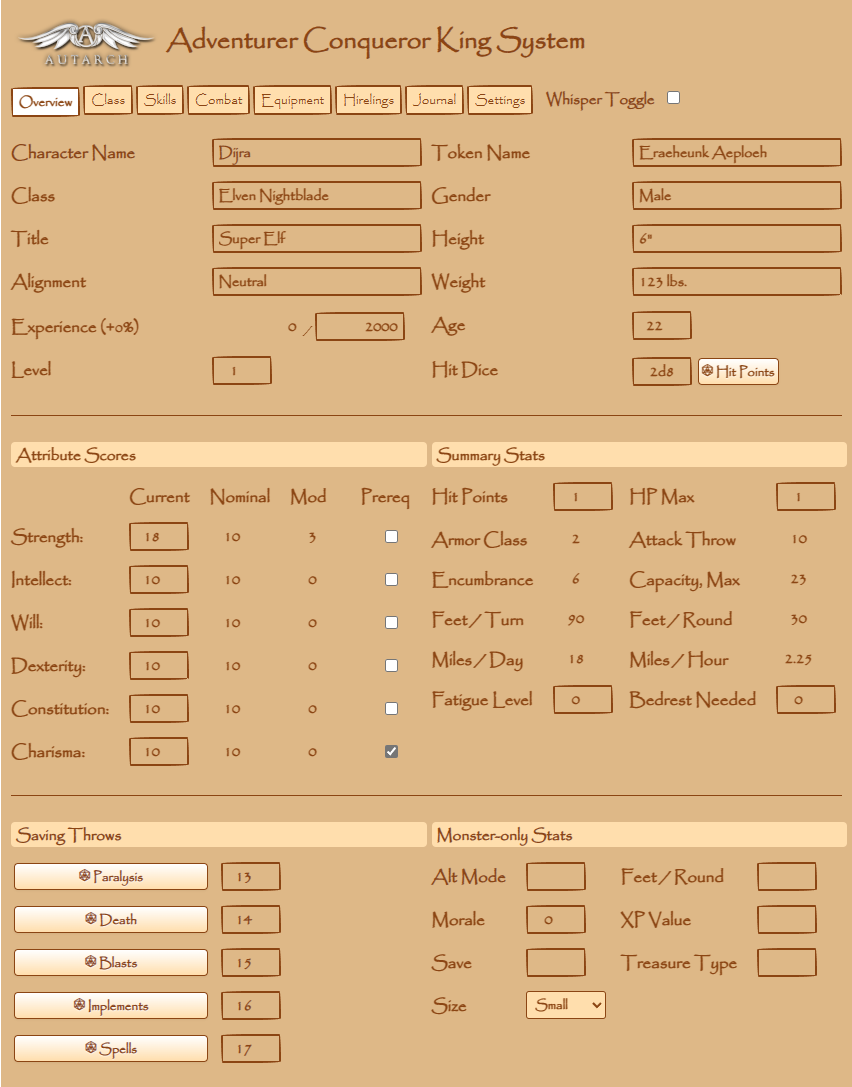
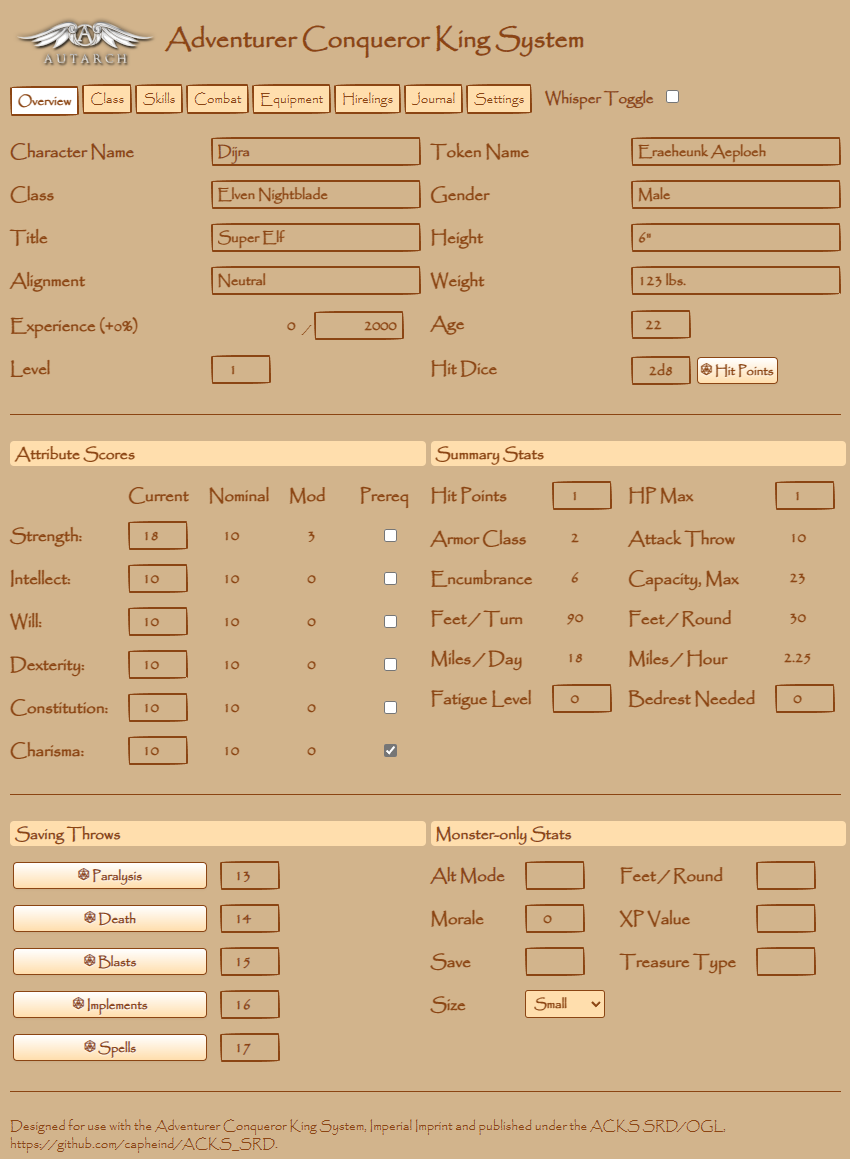
tweeked background color

diff --git a/acks.css b/acks.css
@@ -6,7 +6,7 @@
     padding-top: 2px;
 }
 .charsheet {
-    background-color: burlywood;
+    background-color: tan;
     /*background-image: url();*/
 }
 
